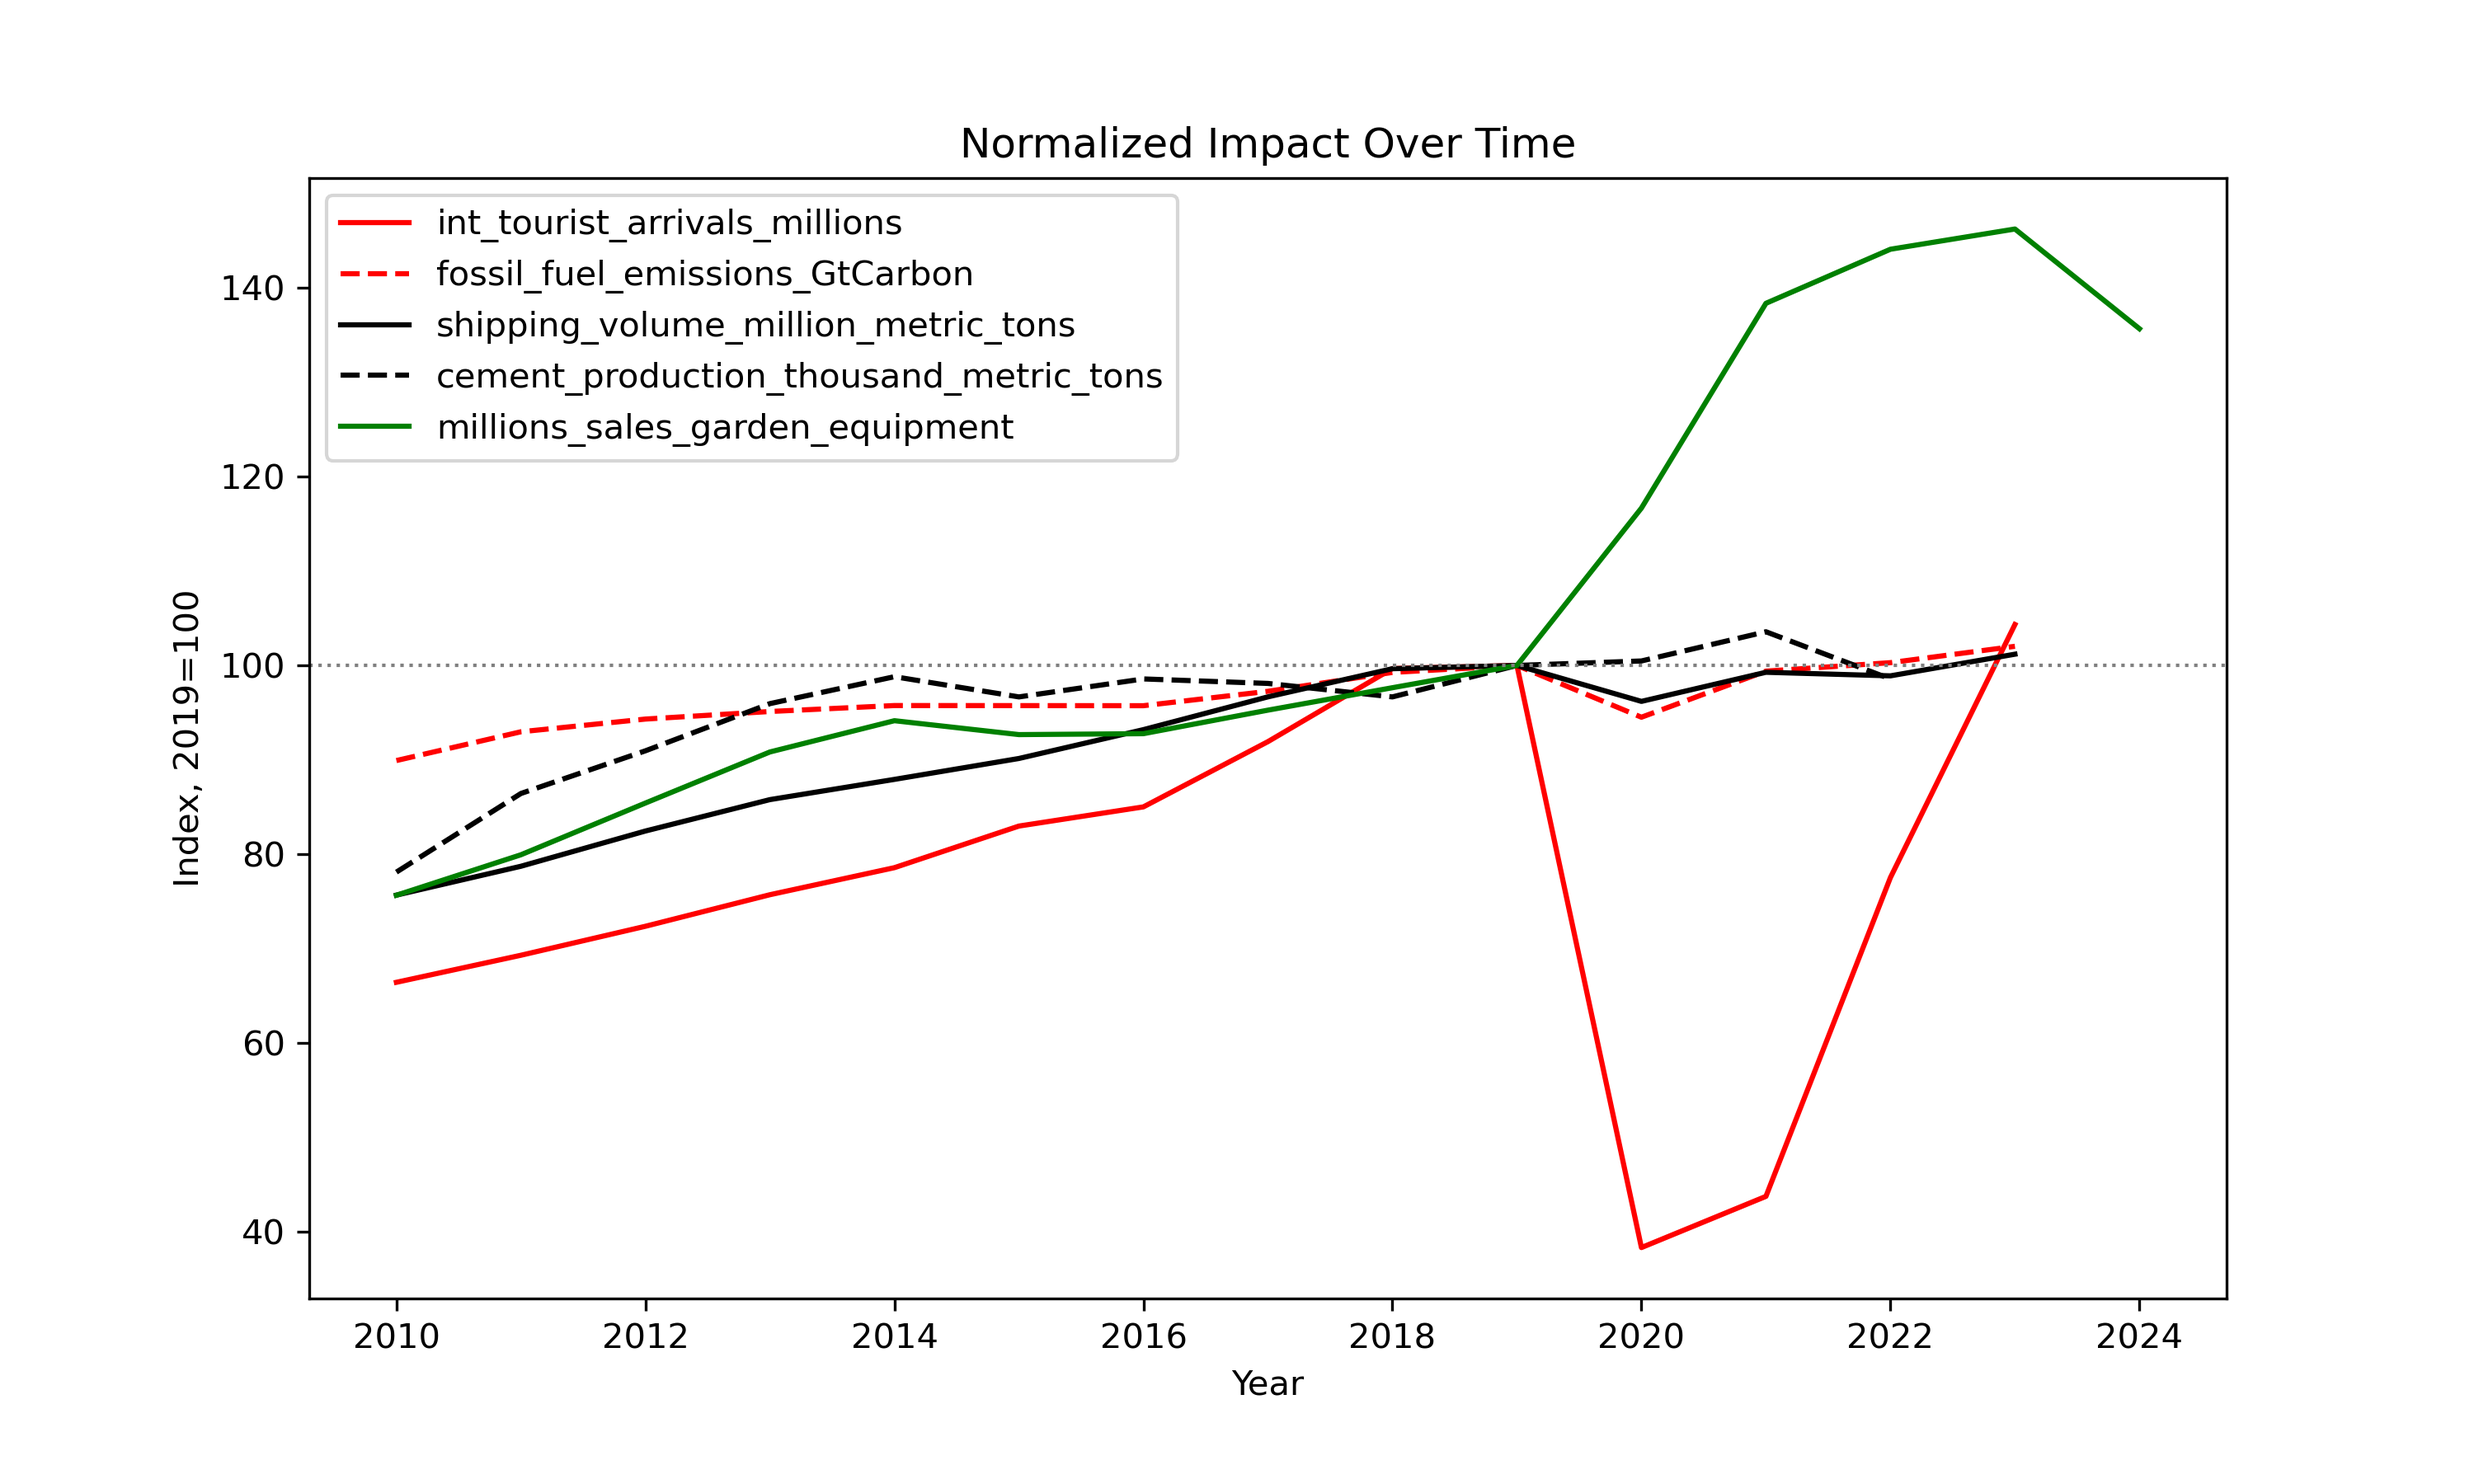
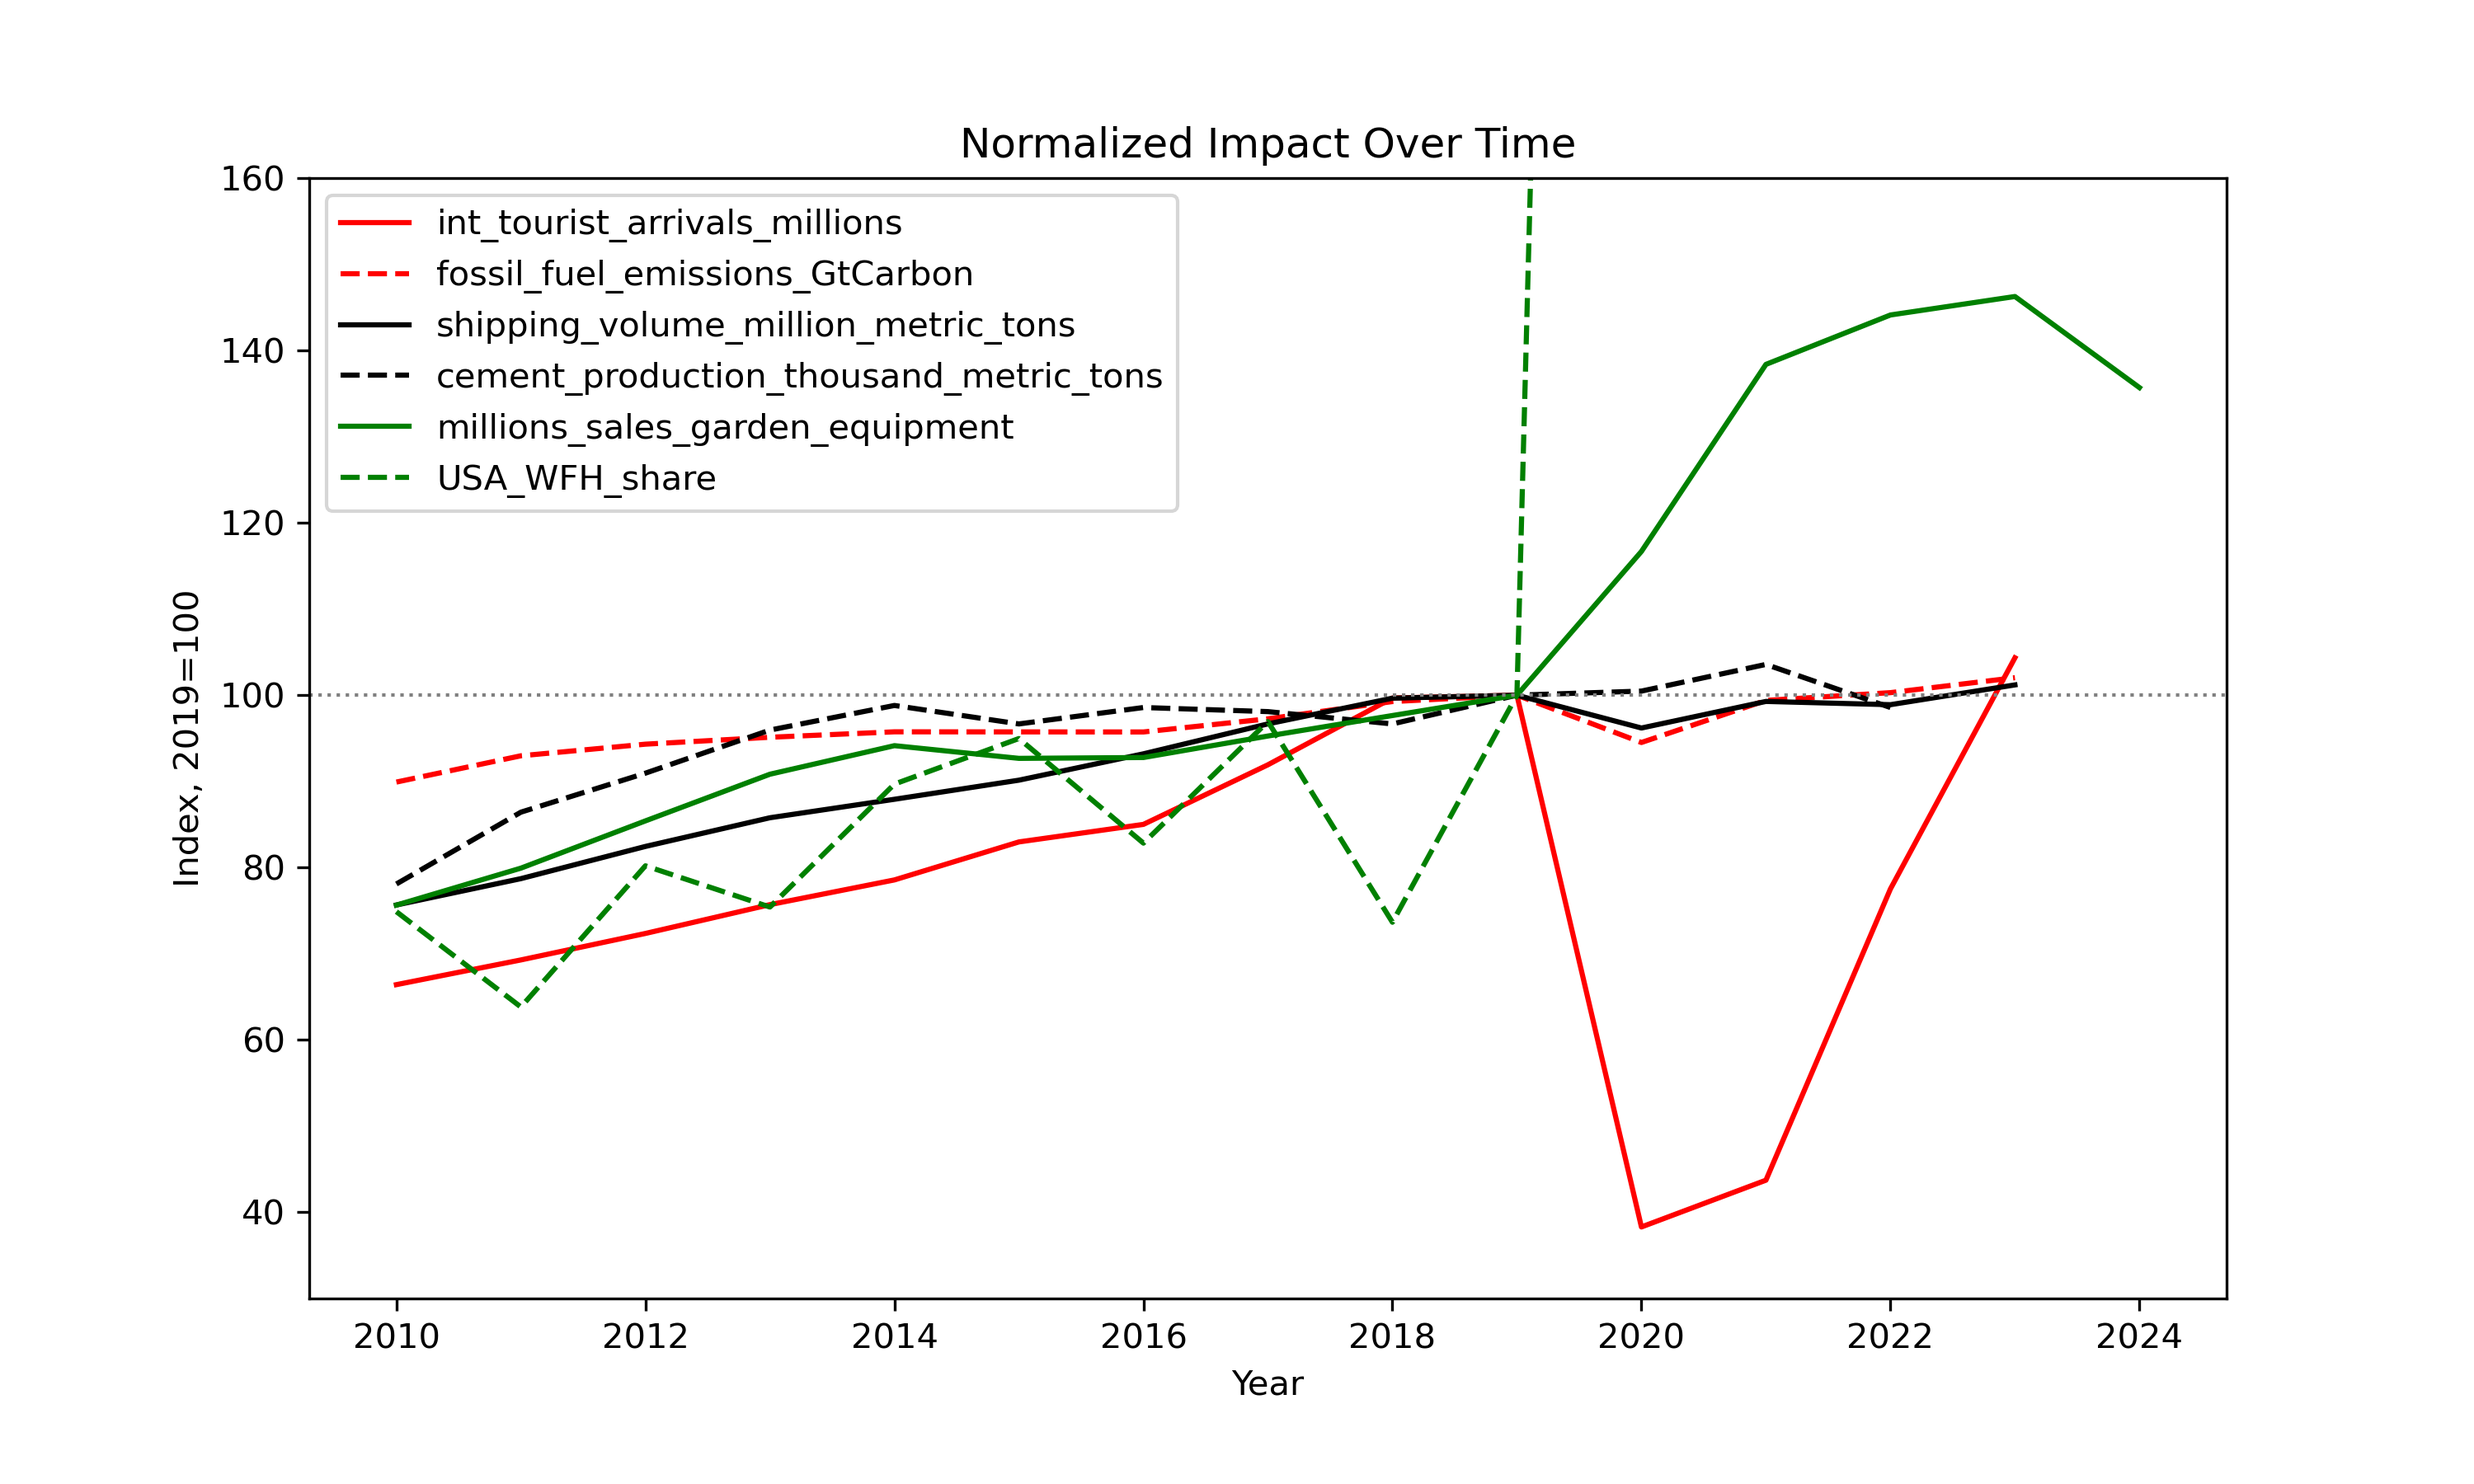
Add WFH back to graph

diff --git a/CODE/data_viz.py b/CODE/data_viz.py
@@ -74,7 +74,8 @@ final_plot = final_plot[['Year',
                          'fossil_fuel_emissions_GtCarbon', 
                          'shipping_volume_million_metric_tons', 
                          'cement_production_thousand_metric_tons', 
-                         'millions_sales_garden_equipment'
+                         'millions_sales_garden_equipment',
+                         'USA_WFH_share'
                           ]]
 
 line_styles = {
@@ -82,7 +83,8 @@ line_styles = {
     'fossil_fuel_emissions_GtCarbon': {'color': 'red', 'linestyle': '--'},
     'shipping_volume_million_metric_tons': {'color': 'black', 'linestyle': '-'},
     'cement_production_thousand_metric_tons': {'color': 'black', 'linestyle': '--'},
-    'millions_sales_garden_equipment': {'color': 'green', 'linestyle': '-'}
+    'millions_sales_garden_equipment': {'color': 'green', 'linestyle': '-'},
+    'USA_WFH_share': {'color': 'green', 'linestyle': '--'}
 }
 
 plt.figure(figsize=(10, 6))
@@ -103,6 +105,8 @@ plt.xlabel('Year')
 plt.ylabel('Index, 2019=100')
 plt.title('Normalized Impact Over Time')
 plt.legend()
+
+plt.ylim(30, 160)
 
 plt.savefig(f"{cd}/FIGURES/normalized_line_pretty.png", dpi=300)  
 
